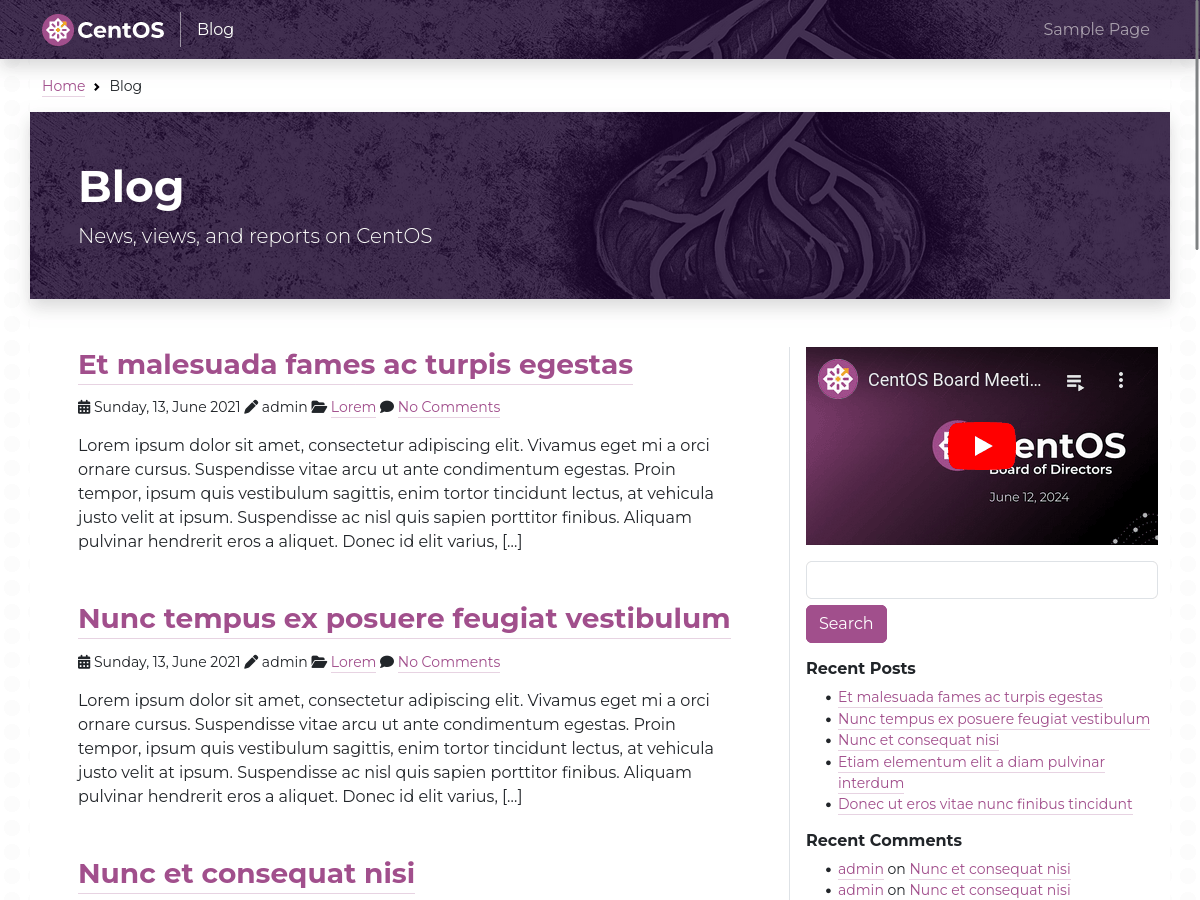
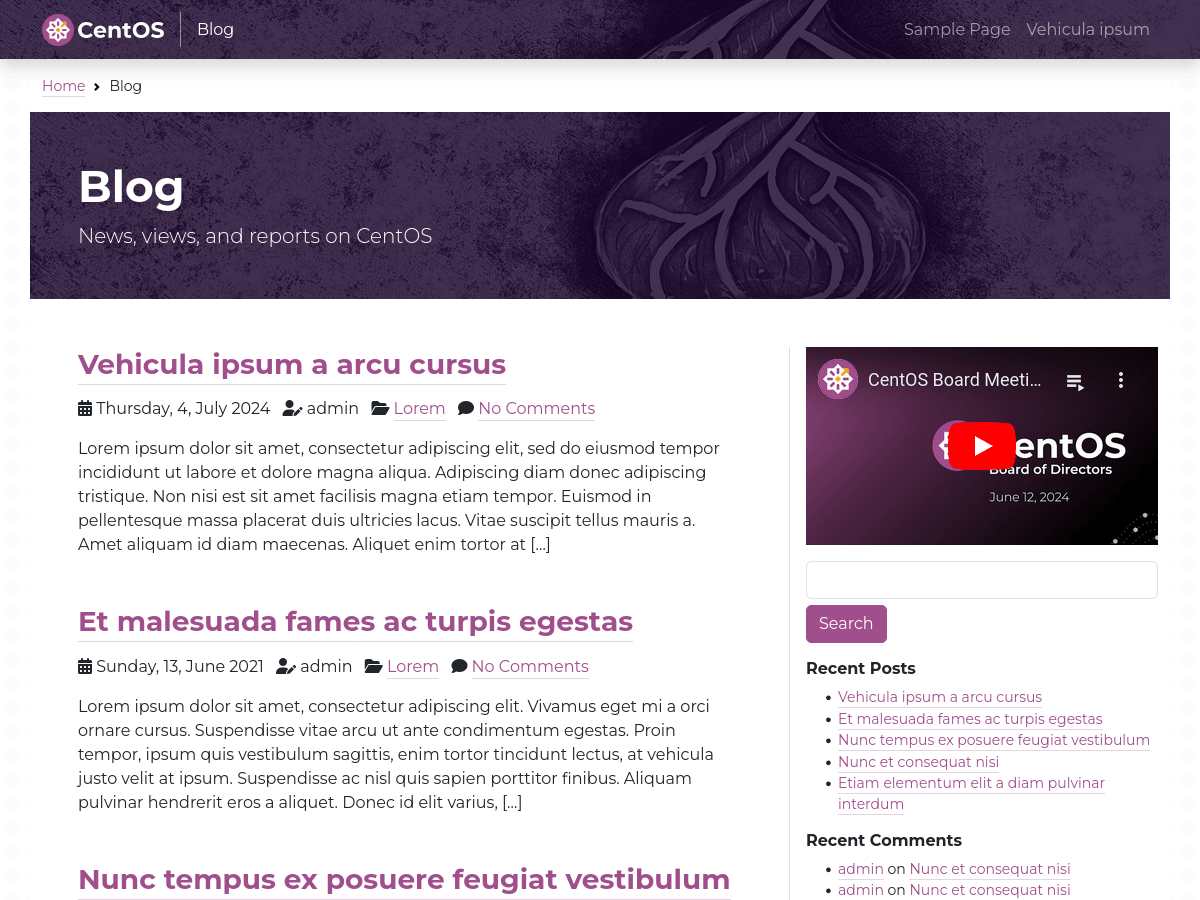
chore: 🤖 update theme templates to v1.0.2

diff --git a/templates/theme/style.css b/templates/theme/style.css
@@ -2,7 +2,7 @@
 Theme Name:        wordpress-theme-centos
 Theme URI:
 Author URI:        https://gitlab.com/centos/artwork
-Version:           v1.0.1
+Version:           v1.0.2
 Author:            CentOS Artwork SIG
 Description:       Wordpress theme for CentOS webistes.
 Tags:

diff --git a/templates/theme/single.php b/templates/theme/single.php
@@ -4,22 +4,15 @@
 
   <?php include( get_theme_file_path( '/includes/breadcrumbs.php' ) ); ?>
 
-
   <div class="row justify-content-center my-5">
     <div class="col-sm-12 col-lg-8">
 
       <div class="h1"><?php the_title(); ?></div>
-      <div class="small mb-5">
-        <span class="pe-2"><i class="fas fa-calendar-alt"></i> <?php the_time('l, j, F Y'); ?></span>
-        <span class="pe-2"><i class="fas fa-pen"></i> <?php the_author_meta('display_name', $post->post_author ); ?></span>
-        <span class="pe-2"><i class="fas fa-folder-open"></i> <?php the_category(', '); ?></span>
-        <span class="pe-2"><i class="fas fa-comment"></i> <a href="<?php comments_link(); ?>"><?php comments_number(); ?></a></span>
-      </div>
+      <?php include( get_theme_file_path( '/includes/the_properties.php' ) ); ?>
 
       <div class="content mb-5">
         <?php the_content(); ?>
       </div>
-
       <?php if ( comments_open() || get_comments_number() ) : comments_template(); endif; ?>
 
     </div>

diff --git a/templates/theme/page.php b/templates/theme/page.php
@@ -6,11 +6,17 @@
 
   <div class="row justify-content-center my-5">
     <div class="col-sm-12 col-lg-8">
+
       <div class="h1"><?php the_title(); ?></div>
+      <div class="mb-5">
+        <span class="pe-2"><i class="fa-solid fa-calendar-alt"></i> <?php the_time('l, j, F Y'); ?></span>
+        <span class="pe-2"><i class="fa-solid fa-pen-to-square"></i> <?php the_modified_time('l, j, F Y'); ?></span>
+      </div>
       <div class="content mb-5">
         <?php the_content(); ?>
+        <?php if ( comments_open() || get_comments_number() ) : comments_template(); endif; ?>
       </div>
-      <?php if ( comments_open() || get_comments_number() ) : comments_template(); endif; ?>
+
     </div>
   </div>
 

diff --git a/templates/theme/includes/the_loop.php b/templates/theme/includes/the_loop.php
@@ -1,0 +1,22 @@
+<?php if (have_posts()) : while (have_posts()) : the_post(); ?>
+
+<div class="mb-5">
+<div class="h3 mb-3"><a href="<?php the_permalink(); ?>"><?php the_title(); ?></a></div>
+<?php include( get_theme_file_path( '/includes/the_properties.php' ) ); ?>
+<?php the_excerpt() ?>
+</div>
+
+<?php endwhile; ?>
+
+<div class="navigation">
+  <div class="next-posts"><?php next_posts_link(); ?></div>
+  <div class="prev-posts"><?php previous_posts_link(); ?></div>
+</div>
+
+<?php else : ?>
+
+<div <?php post_class(); ?> id="post-<?php the_ID(); ?>">
+  <p>Not Found.</p>
+</div>
+
+<?php endif; ?>

diff --git a/templates/theme/includes/the_properties.php b/templates/theme/includes/the_properties.php
@@ -1,0 +1,6 @@
+<div class="mb-3">
+  <span class="pe-2"><i class="fa-solid fa-calendar-alt"></i> <?php the_time('l, j, F Y'); ?></span>
+  <span class="pe-2"><i class="fa-solid fa-user-pen"></i> <?php the_author_meta('display_name', $post->post_author ); ?></span>
+  <span class="pe-2"><i class="fa-solid fa-folder-open"></i> <?php the_category(', '); ?></span>
+  <span class="pe-2"><i class="fa-solid fa-comment"></i> <a href="<?php comments_link(); ?>"><?php comments_number(); ?></a></span>
+</div>

diff --git a/templates/theme/includes/breadcrumbs.php b/templates/theme/includes/breadcrumbs.php
@@ -9,7 +9,7 @@
 	<?php if ( is_404() ) : ?>
 	<li class="breadcrumb-item">404</li>
 	<?php elseif ( is_search() ) : ?>
-	<li class="breadcrumb-item">Search results for "<?php echo get_search_query(); ?>"</li>
+	<li class="breadcrumb-item">Search results "<?php echo get_search_query(); ?>"</li>
 	<?php elseif ( is_category() ) : ?>
 	<li class="breadcrumb-item">Categories "<?php single_cat_title(); ?>"</li>
 	<?php elseif ( is_archive() ) : ?>

diff --git a/templates/theme/search.php b/templates/theme/search.php
@@ -6,8 +6,8 @@
 
   <div class="row justify-content-center mb-5">
     <div class="text-bg-dark bg-image p-5">
-      <div class="h1"><?php bloginfo( 'name' ); ?></div>
-      <div class="lead"><?php bloginfo( 'description' ); ?></div>
+      <div class="h1">Search results</div>
+      <div class="lead"><?php echo get_search_query(); ?></div>
     </div>
   </div>
 

diff --git a/templates/theme/category.php b/templates/theme/category.php
@@ -6,8 +6,8 @@
 
   <div class="row justify-content-center mb-5">
     <div class="text-bg-dark bg-image p-5">
-      <div class="h1"><?php bloginfo( 'name' ); ?></div>
-      <div class="lead"><?php bloginfo( 'description' ); ?></div>
+      <div class="h1">Categories</div>
+      <div class="lead"><?php single_cat_title(); ?></div>
     </div>
   </div>
 

diff --git a/templates/theme/archive.php b/templates/theme/archive.php
@@ -6,8 +6,8 @@
 
   <div class="row justify-content-center mb-5">
     <div class="text-bg-dark bg-image p-5">
-      <div class="h1"><?php bloginfo( 'name' ); ?></div>
-      <div class="lead"><?php bloginfo( 'description' ); ?></div>
+      <div class="h1">Archives</div>
+      <div class="lead"><?php the_archive_title(); ?></div>
     </div>
   </div>
 
